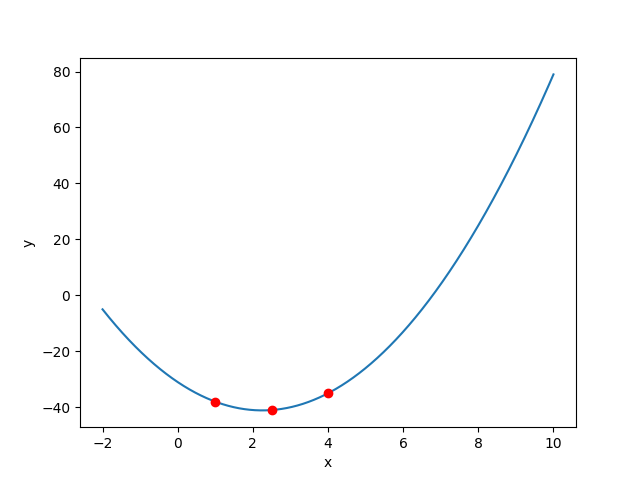
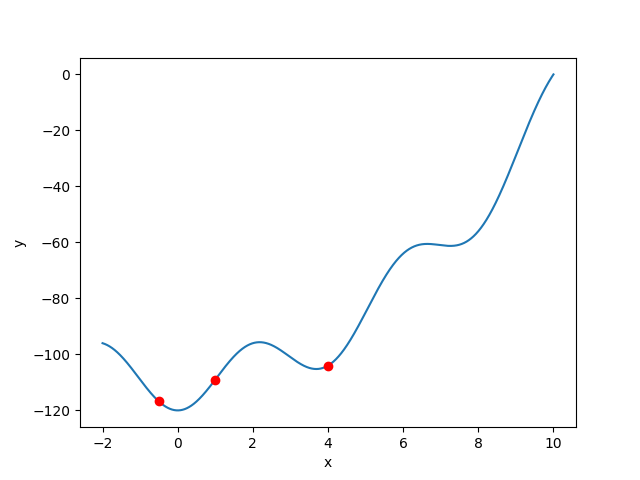
bsearch

diff --git a/08_bsearch/bsearch.py b/08_bsearch/bsearch.py
@@ -5,12 +5,64 @@ matplotlib.use('Agg')  # Устанавливает backend 'Agg', чтобы г
 import matplotlib.pyplot as plt  # Импортирует pyplot из Matplotlib под псевдонимом plt — основной инструмент для построения графиков.
 
 
-def f(x):  # Определяет целевую функцию f(x) = 2x² - 9x - 31, минимум которой нужно найти.
+'''def f(x):  # Определяет целевую функцию f(x) = 2x² - 9x - 31, минимум которой нужно найти.
     return 2 * (x ** 2) - 9 * x - 31  # Возвращает значение квадратичной функции в точке x.
 
 def df(x):  # Определяет производную функции f(x): f'(x) = 4x - 9.
-    return 4 * x - 9  # Возвращает значение первой производной в точке x.
+    return 4 * x - 9  # Возвращает значение первой производной в точке x.'''
 
+def f(x):
+    return -2 * np.sin(np.sqrt(abs(x / 2 + 10))) - x * np.sin(np.sqrt(abs(x - 10)))
+
+
+def df(x):
+    """
+    Аналитическая производная f1(x).
+    Не определена в x = -20 и x = 10 (особые точки из-за abs).
+    Возвращает вещественное число; в особых точках — приближение.
+    """
+    eps = 1e-15  # порог для избежания деления на ноль
+
+    # Часть 1: d/dx [ -2 * sin(sqrt(|x/2 + 10|)) ]
+    u = x / 2 + 10
+    abs_u = abs(u)
+    if abs_u < eps:
+        term1 = 0.0  # или np.nan — но 0 безопаснее для численных методов
+    else:
+        sign_u = np.sign(u)
+        sqrt_abs_u = np.sqrt(abs_u)
+        term1 = -2 * np.cos(sqrt_abs_u) * (sign_u / 4) / sqrt_abs_u
+        # Обоснование: d/dx sqrt(|u|) = (1/(2*sqrt(|u|))) * sign(u) * du/dx,
+        # где du/dx = 1/2 → итого: sign(u) / (4 * sqrt(|u|))
+
+    # Часть 2: d/dx [ -x * sin(sqrt(|x - 10|)) ] = -sin(...) - x * cos(...) * d/dx[sqrt(|x-10|)]
+    v = x - 10
+    abs_v = abs(v)
+    if abs_v < eps:
+        # При v ≈ 0: sqrt(|v|) ≈ 0, sin(0)=0, cos(0)=1, но производная sqrt(|v|) → ∞
+        # Однако множитель x * ... может компенсировать? Лучше использовать предел.
+        # Практически: ставим 0 или игнорируем особую точку.
+        term2 = -np.sin(0.0)  # = 0
+        term3 = 0.0
+    else:
+        sign_v = np.sign(v)
+        sqrt_abs_v = np.sqrt(abs_v)
+        term2 = -np.sin(sqrt_abs_v)
+        term3 = -x * np.cos(sqrt_abs_v) * (sign_v / (2 * sqrt_abs_v))
+
+    return term1 + term2 + term3
+
+
+
+def f2(x):
+    return x ** 2 - 10 * np.cos(0.5 * np.pi * x) - 110
+
+def df2(x):
+    """
+    Аналитическая производная f2(x) = x^2 - 10*cos(0.5*pi*x) - 110.
+    f2'(x) = 2x + 5*pi*sin(0.5*pi*x)
+    """
+    return 2 * x + 5 * np.pi * np.sin(0.5 * np.pi * x)
 
 def bsearch(interval, tol):  # Определяет функцию поиска минимума методом бисекции (дихотомии).
     """
